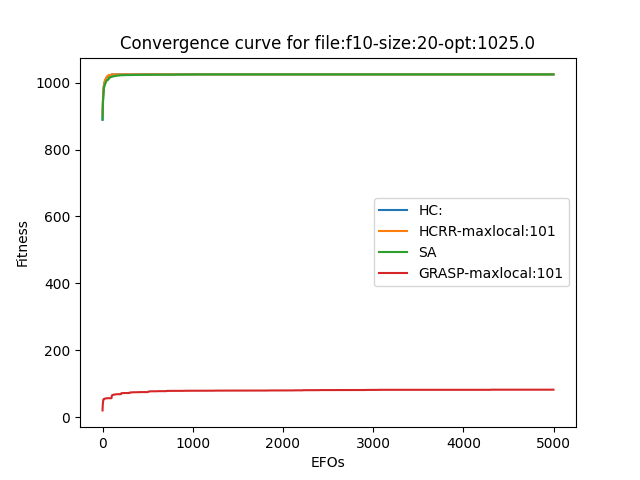
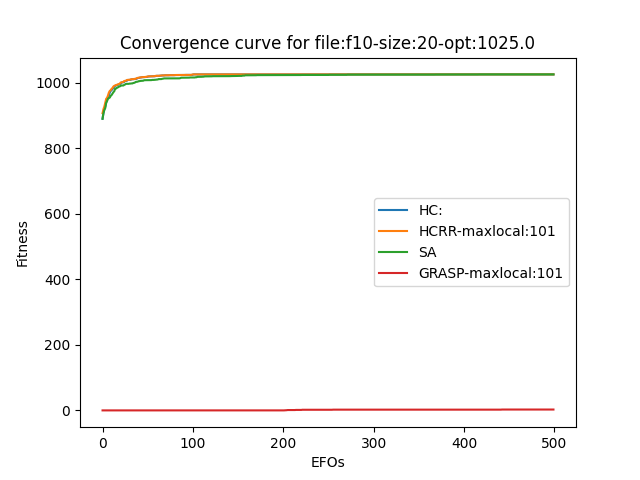
GRASP desde metodo

diff --git a/Problema-de-la-mochila-binaria/algorithms/GRASP.py b/Problema-de-la-mochila-binaria/algorithms/GRASP.py
@@ -14,51 +14,54 @@ class GRASP:
         efos = 0
         stop_optimal = self.problem.OptimalKnown
         stop = False
-        self.best = solution(problem)          
+                 
         while efos < self.max_efos:
-            C = solution(problem)                 
-            S_rand = []               
+            
             S = solution(problem)  
-            S_copy = solution(S.problem)
-            C_prima = []
-            total_weight = 0
+            S.Initialization_GRASP()
+            # C = solution(problem)   
+            # S_copy = solution(S.problem)    
+            # S_rand = []               
+            # C_prima = []
+            # total_weight = 0
+            # C_prima = C.problem.items
+            # for var in range(C.cells.size):
+            #     if not bool(C_prima):
+            #         #print("C_prima Is empty")
+            #         break
+            #     else:
+            #         #print("C_prima Is not empty")
+            #         C_Ordernado = sorted(C_prima, key=lambda x: x[3], reverse=True)                    
+            #         C_dos_prima = int(len(C_Ordernado)*0.33)+1
+            #         i = np.random.randint(C_dos_prima)
+            #         s_random_component = C_Ordernado[i]
+            #         S_copy.cells = np.copy(S.cells)
+            #         S_copy.cells[s_random_component[0]]=1
+            #         S_copy.evaluate()
+                    
+            #         weight_test = s_random_component[1]
+            #         total_weight = total_weight + weight_test
+            #         weight = S_copy.weight                    
+            #         if weight <= problem.capacity: 
+            #             if not bool(S_rand):
+            #                 S_rand.append(s_random_component)
+            #                 S.cells[s_random_component[0]]=1     
+            #                 continue     
+            #             S_rand.append(s_random_component)      
+            #             S_set = {tuple(sublista) for sublista in S_rand}
+            #             C_sin_repeticiones = [sublista for sublista in C.problem.items if tuple(sublista) not in S_set]
+            #             C_prima = C_sin_repeticiones  
+            #             S.cells[s_random_component[0]]=1      
+            #         else:
+            #             #print("No es factible")
+            #             S.cells[s_random_component[0]]=0  
+            #             #S.evaluate() 
+            #             break                    
             if efos == 0:
+                self.best = solution(problem) 
                 self.best.from_solution(S)  # self.best is a full copy of S
                 best_fitness_history[0] = self.best.fitness
-            C_prima = C.problem.items
-            for var in range(C.cells.size):
-                if not bool(C_prima):
-                    #print("C_prima Is empty")
-                    break
-                else:
-                    #print("C_prima Is not empty")
-                    C_Ordernado = sorted(C_prima, key=lambda x: x[3], reverse=True)                    
-                    C_dos_prima = int(len(C_Ordernado)*0.33)+1
-                    i = np.random.randint(C_dos_prima)
-                    s_random_component = C_Ordernado[i]
-                    S_copy.cells = np.copy(S.cells)
-                    S_copy.cells[s_random_component[0]]=1
-                    S_copy.evaluate()
-                    
-                    weight_test = s_random_component[1]
-                    total_weight = total_weight + weight_test
-                    weight = S_copy.weight                    
-                    if weight <= problem.capacity: 
-                        if not bool(S_rand):
-                            S_rand.append(s_random_component)
-                            S.cells[s_random_component[0]]=1     
-                            continue     
-                        S_rand.append(s_random_component)      
-                        S_set = {tuple(sublista) for sublista in S_rand}
-                        C_sin_repeticiones = [sublista for sublista in C.problem.items if tuple(sublista) not in S_set]
-                        C_prima = C_sin_repeticiones  
-                        S.cells[s_random_component[0]]=1      
-                    else:
-                        #print("No es factible")
-                        S.cells[s_random_component[0]]=0  
-                        #S.evaluate() 
-                        break                    
-
+                
             for opt in range(1, self.max_local):
                 R = solution(S.problem)
                 R.from_solution(S)  # R is a full copy of S

diff --git a/Problema-de-la-mochila-binaria/solution.py b/Problema-de-la-mochila-binaria/solution.py
@@ -18,60 +18,42 @@ class solution:
     def evaluate(self):
         self.fitness, self.weight = self.problem.evaluate(self.cells)
 
-    # Original code
-    # def Initialization(self):
-    #     positions = np.random.choice(self.problem.size, self.problem.size, replace=False)
-    #     self.cells = np.zeros(self.problem.size, int)
-    #     self.add_items_while_keep_capacity(positions, 0)
-    #     self.evaluate()
-
-    # def add_items_while_keep_capacity(self, positions, weight):
-    #     self.weight = weight
-    #     for p in positions:
-    #         if self.weight + self.problem.weights[p] < self.problem.capacity:
-    #             self.cells[p] = 1
-    #             self.weight += self.problem.weights[p]
-
-    # def tweak(self):
-    #     selectedPositions = np.where(self.cells == 1)[0]
-    #     unselectedPositions = np.where(self.cells == 0)[0]
-    #     x = np.random.randint(len(selectedPositions), size=1)
-    #     elementToRemove = selectedPositions[x[0]]
-    #     self.cells[elementToRemove] = 0
-    #     self.weight = self.weight - self.problem.weights[elementToRemove]
-    #     self.fitness = self.fitness - self.problem.profits[elementToRemove]
-    #     self.complete(unselectedPositions, False)
-
     def Initialization(self):
-        positions = np.random.choice(
-            self.problem.size, self.problem.size, replace=False)
+        positions = np.random.choice(self.problem.size, self.problem.size, replace=False)
         self.cells = np.zeros(self.problem.size, int)
         self.add_items_while_keep_capacity(positions, 0)
         self.evaluate()    
     
-    # def Initialization_GRASP(self,Solution):
-    #     C_Ordernado = sorted(C_prima, key=lambda x: x[3], reverse=True)
-    #     C_dos_prima = int(len(C_Ordernado)*0.33)+1
-    #     i = np.random.randint(C_dos_prima)
-    #     s_random_component = C_Ordernado[i]   
-    #     Solution.cells = np.copy(S.cells)
-    #     Solution.cells[s_random_component[0]] = 1
-    #     Solution.evaluate()
-    #     weight = Solution.weight
-    #     if weight < problem.capacity:
-    #         if not bool(S_rand):
-    #             S_rand.append(s_random_component)
-    #         S_rand.append(s_random_component)
-    #         S_set = {tuple(sublista) for sublista in S_rand}
-    #         C_sin_repeticiones = [
-    #             sublista for sublista in C.problem.items if tuple(sublista) not in S_set]
-    #         C_prima = C_sin_repeticiones
-    #         S.cells[s_random_component[0]] = 1
-    #     else:
-    #         # print("No es factible")
-    #         S.evaluate()
-    #         weight = S.weight
-    #         break
+    def Initialization_GRASP(self):   
+        S_rand = []  
+        C_prima = self.problem.items
+        for var in range(self.cells.size):
+            if not bool(C_prima):
+                #print("C_prima Is empty")
+                break
+            else:
+                #print("C_prima Is not empty")
+                C_Ordernado = sorted(C_prima, key=lambda x: x[3], reverse=True)                    
+                C_dos_prima = int(len(C_Ordernado)*0.33)+1
+                i = np.random.randint(C_dos_prima)
+                s_random_component = C_Ordernado[i]
+                self.cells[s_random_component[0]]=1
+                self.evaluate()                        
+                if self.weight <= self.problem.capacity: 
+                    if not bool(S_rand):
+                        S_rand.append(s_random_component)
+                        self.cells[s_random_component[0]]=1     
+                        continue     
+                    S_rand.append(s_random_component)      
+                    S_set = {tuple(sublista) for sublista in S_rand}
+                    C_sin_repeticiones = [sublista for sublista in self.problem.items if tuple(sublista) not in S_set]
+                    C_prima = C_sin_repeticiones  
+                    self.cells[s_random_component[0]]=1      
+                else:
+                    #print("No es factible")
+                    self.cells[s_random_component[0]]=0  
+                    #S.evaluate() 
+                    break            
 
     def add_items_while_keep_capacity(self, positions, weight):
         self.weight = weight

diff --git a/Problema-de-la-mochila-binaria/main.py b/Problema-de-la-mochila-binaria/main.py
@@ -12,7 +12,7 @@ import math
 myPath = "Problema-de-la-mochila-binaria/problems/"
 # myPath = "content/sample_data/problems/"
 
-max_efos = 5000
+max_efos = 500
 repetitions = 31
 
 # Afinamiento de parametros
